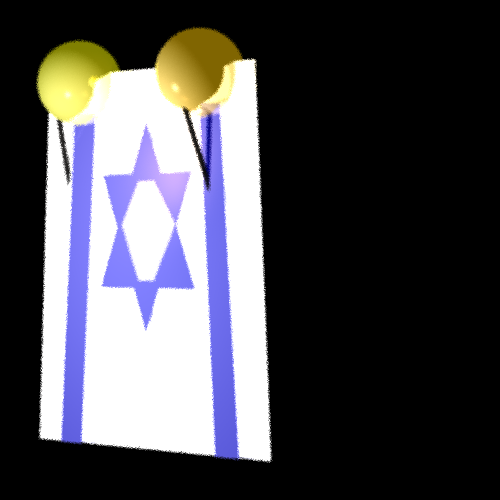
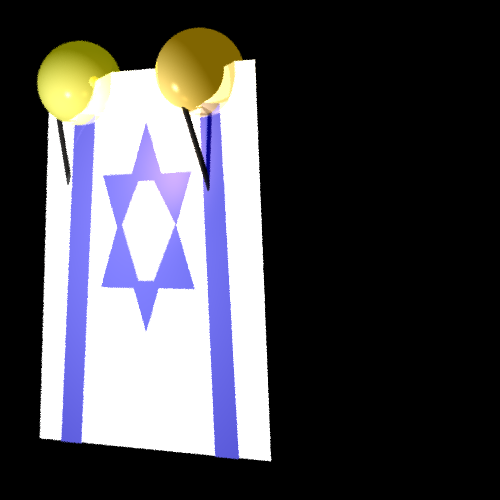
antialising added

diff --git a/src/renderer/Camera.java b/src/renderer/Camera.java
@@ -259,49 +259,145 @@ private Random random = new Random();
 
             return _rayTracer.traceRay(centerRay).add();
     }
+    /**
+     * The function casts a ray from the camera to the focal point, and then casts rays from the focal point to the scene
+     *
+     * @param nX the x coordinate of the pixel in the image
+     * @param nY the y coordinate of the pixel in the image
+     * @param j the x coordinate of the pixel in the image
+     * @param i the x coordinate of the pixel in the image
+     * @return The color of the pixel.
+     */
     private Color castRayDepth(int nX, int nY, double j, double i) {
         Ray centerRay=constructRay(nX,nY,(int)j,(int)i);
         Point focalPoint= calcFocalFieldPoint(centerRay);
-        List<Point> aperturePoints= get4PointOnAperture(centerRay);
-        List<Ray> apertureRays=contructRays(aperturePoints,focalPoint);
-        return averageColor(apertureRays,centerRay);
-
+        return colorSecundaryRays(centerRay,focalPoint);
     }
-    public Color averageColor(List<Ray> rays,Ray centerRay){
-        Color color=Color.BLACK;
-        for( Ray ray:rays){
-            color=color.add(_rayTracer.traceRay(ray));
-        }
-        color= color.add(_rayTracer.traceRay(centerRay));
-        return color.reduce(Double.valueOf(rays.size()+1));
+    /**
+     * Given a color and a length, return the average color of the color and the length.
+     *
+     * @param color The color to average
+     * @param len the length of the array
+     * @return The average color of the pixels in the image.
+     */
+    public Color averageColor(Color color, int len){
+        return color.reduce(Double.valueOf(len+1));
     }
 
+    /**
+     * The focal point is the point on the focal plane that is the same distance from the focal plane as the intersection
+     * point is from the view plane
+     *
+     * @param ray the ray that is being traced
+     * @return The point on the focal plane that the ray intersects.
+     */
     private Point calcFocalFieldPoint(Ray ray) {
         double len= _focusField /_vTo.dotProduct(ray.getDir());
         return ray.getPoint(len);
     }
+    /**
+     * > Given a ray, calculate the point on the aperture field that the ray would hit
+     *
+     * @param ray the ray to be traced
+     * @return The point on the aperture field that the ray intersects.
+     */
     private Point calcApertureFieldPoint(Ray ray) {
         double len= _apertureFieldDistance /_vTo.dotProduct(ray.getDir());
         return ray.getPoint(len);
     }
 
-    private List<Point> get4PointOnAperture(Ray ray)
+    /**
+     * The function creates a random point on the aperture field, and then creates a ray from that point to the focus plane
+     * intersection point. The color of the ray is then added to the color of the primary ray
+     *
+     * @param ray The ray that hit the focus plane.
+     * @param focusPlaneIntersection The point on the focus plane where the primary ray intersects.
+     * @return The color of the point in the focus plane.
+     */
+    private Color colorSecundaryRays(Ray ray,Point focusPlaneIntersection)
     {
-        List<Point> points=new LinkedList<>() ;
-            Point apertureCenter= calcApertureFieldPoint( ray);
-
-        for (int i=0 ;i<10;i++){
+        Color color=  _rayTracer.traceRay(ray);
+        Point apertureCenter= calcApertureFieldPoint( ray);
+        int i=0;
+        for (;i<10;i++){
             Point p = apertureCenter.add(_vUp.scale(random(-_apertureFieldRadius,_apertureFieldRadius))).add(_vRight.scale(random(-_apertureFieldRadius,_apertureFieldRadius)));
-            points.add(p);
+            Ray depthRay= new Ray(p, new Vector(focusPlaneIntersection.substract( p).get_xyz()));
+            color=color.add(_rayTracer.traceRay(depthRay));
         }
-        return points;
+
+        return averageColor(color,i);
     }
-    private List<Ray> contructRays(List<Point> aperturePoints ,Point focusPlaneIntersection){
-        List<Ray> rays = new LinkedList<>();
-        for (Point point : aperturePoints){
-            rays.add( new Ray(point, new Vector(focusPlaneIntersection.substract(point).get_xyz())));
+    /**
+     * This function get a ray launched in the center of a pixel and launch a beam n * m others rays
+     * on the same pixel
+     *
+     * @param nX  number of pixels in a row of view plane
+     * @param nY  number of pixels in a column of view plane
+     * @param n   number of the rays to launch in pixel
+     * @param m   number of the ray to launch in the pixel
+     * @param ray the ray that it is already launched in the center of the pixel
+     * @return list of rays when every ray is launched inside a pixel with random emplacement
+     */
+    public List<Ray> constructRaysGridFromRay(int nX, int nY, int n, int m, Ray ray) {
+
+        Point p0 = ray.getPoint(_distance); //center of the pixel
+        List<Ray> myRays = new LinkedList<>(); //to save all the rays
+
+        double pixelHeight = alignZero(_height / nY);
+        double pixelHWidth = alignZero(_width / nX);
+
+        //We call the function constructRayThroughPixel like we used to but this time we launch m * n ray in the same pixel
+
+        for (int i = 0; i < n; i++) {
+            for (int j = 0; j < m; j++) {
+                myRays.add(constructRayThroughPixel(m, n, j, i, pixelHeight, pixelHWidth, p0));
+            }
         }
-        return rays;
+
+        return myRays;
+    }
+
+    /**
+     * The function constructs a ray from Camera location through a point (i,j) on the grid of a
+     * pixel in the view plane
+     *
+     * @param m      grid's height
+     * @param n      grid's width
+     * @param j      number of the pixel in the row
+     * @param i      number of the pixel in the column
+     * @param pixelH height of the pixel
+     * @param pixelW width of the pixel
+     * @param pc     pixel center
+     * @return the ray through pixel's center
+     */
+    private Ray constructRayThroughPixel(int m, int n, double j, double i, double pixelH, double pixelW, Point pc) {
+
+        Point pIJ = pc;
+
+        //Ry = height / nY : height of a pixel
+        double rY = pixelH / n;
+        //Ry = weight / nX : width of a pixel
+        double rX = pixelW / m;
+        //xJ is the value of width we need to move from center to get to the point
+        //we get to the bottom/top of the pixel and then we move randomly in the pixel to get the point
+        double xJ = ((j + random.nextDouble() / (random.nextBoolean() ? 2 : -2)) - ((m - 1) / 2d)) * rX;
+        //yI is the value of height we need to move from center to get to the point
+        //we get to the side of the pixel and then we move randomly in the pixel to get the point
+        double yI = -((i + random.nextDouble() / (random.nextBoolean() ? 2 : -2)) - ((n - 1) / 2d)) * rY;
+
+        if (xJ != 0) {
+            pIJ = pIJ.add(_vRight.scale(xJ));
+        }
+        if (yI != 0) {
+            pIJ = pIJ.add(_vUp.scale(yI));
+        }
+
+        //get vector from camera p0 to the point
+        Vector vIJ = pIJ.substract(_p0);
+
+        //return ray to the center of the pixel
+        return new Ray(_p0, vIJ);
+
     }
 }
 
